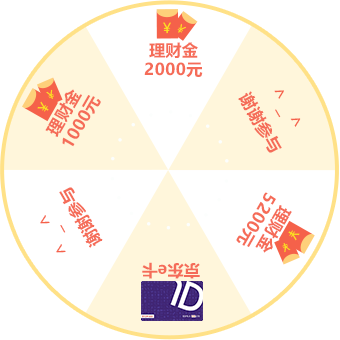
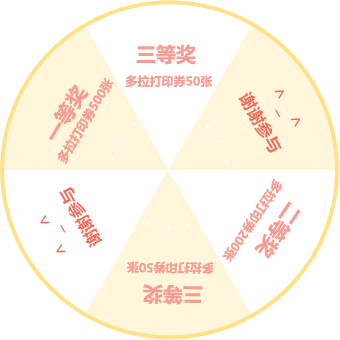
完善细节

Changed region(s): [[0.0588, 0.0294, 0.6471, 0.5], [0.3529, 0.7647, 0.6471, 0.9412], [0.6471, 0.5294, 0.9412, 0.7941]]

diff --git a/test/test.js b/test/test.js
@@ -88,12 +88,16 @@ Page({
   },
   go(){
     var _this = this;
+    wx.showLoading({
+      title: '检查资格ing...',
+    });
     if (_this.data.xm != "" && _this.data.xh != "" && _this.data.tele != "")
     {
       wx.login({
         success:function(res){
+          wx.hideLoading();
           wx.request({
-            url: 'https://www.booleanln.cn/net/isFirst.php',
+            url:host+'isFirst.php',
             data:{
               code:res.code,
               name: _this.data.xm,
@@ -102,7 +106,7 @@ Page({
             },
             header: { "content-type":"application/www-form-urlencode"},
             success:function(res){
-              console.log(res.data);
+              //console.log(res);
               if(res.data.code>0)
               {
                 var str = 'xm= ' + _this.data.xm + '&xh=' + _this.data.xh + '&xtele=' + _this.data.tele+'&openid='+res.data.open_id;
@@ -110,16 +114,28 @@ Page({
                   url: '../../pages/prize/prize?' + str,
                   success: function () {
                     console.log("跳转成功");
-
                   },
                   fail: function (res) {
                     console.log(res);
                   }
                 })
-              }else{
+              } else if (res.data.code==-1){
                 wx.showModal({
                   title: '抽奖次数已用完！',
                   content: '抽奖次数已用完！',
+                })
+              }else if(res.data.code==-3)
+              {
+                wx.showModal({
+                  title: '格式错误',
+                  content: '请检查学号格式是否正确',
+                })
+              }
+              else
+              {
+                wx.showModal({
+                  title: 'sorry',
+                  content: '您的缺勤次数多于3次，无法参与抽奖',
                 })
               }
             }
@@ -127,9 +143,10 @@ Page({
         }
       })
     }else{
+      wx.hideLoading();
       wx.showModal({
-        title: '输入以上信息，中奖后联系！',
-        content: '输入以上信息，中奖后联系！',
+        title: 'tip',
+        content: '输入姓名学号及联系方式，中奖后通知你哦~',
       })
     }
   }

diff --git a/prize/prize.js b/prize/prize.js
@@ -102,7 +102,7 @@ Page({
       });
       var deg = 0;
       wx.request({
-        url: 'https://www.booleanln.cn/net/getPrice.php',
+        url: host+'getPrice.php',
         data:{
           phone:xtele,
           stunum:xh,
@@ -112,11 +112,11 @@ Page({
         header: { "content-type": "application/www-form-urlencode" },
         method: 'get',
         success: function (res) {
+          console.log(res);
          deg = res.data;
-         console.log(deg);
          animation.rotate(deg).step();
         _this.setData({
-        an_zhuanp: animation.export(),
+        an_zhuanp: animation.export(),  
         start:null
       });
       if (deg == 60) {
@@ -124,15 +124,15 @@ Page({
         title: '恭喜获得一等奖一份',
         content: '恭喜获得一等奖一份',
        })
-      }else if(deg==300){
+      }else if(deg==240){
         wx.showModal({
-          title: '恭喜获得精美小礼品一份',
-          content: '恭喜获得精美小礼品一份',
+          title: '恭喜获得二等奖一份',
+          content: '恭喜获得二等奖一份',
         })
-      }else if(deg == 180){
+      } else if (deg == 180 || deg == 0){
         wx.showModal({
-          title: '恭喜获得精美笔记本一份',
-          content: '恭喜获得精美笔记本一份',
+          title: '恭喜获得三等奖一份',
+          content: '恭喜获得三等奖一份',
         })
       }else{
         wx.showModal({
@@ -142,7 +142,6 @@ Page({
       }
         }
       })
-     
     },3000);
   }
 })
